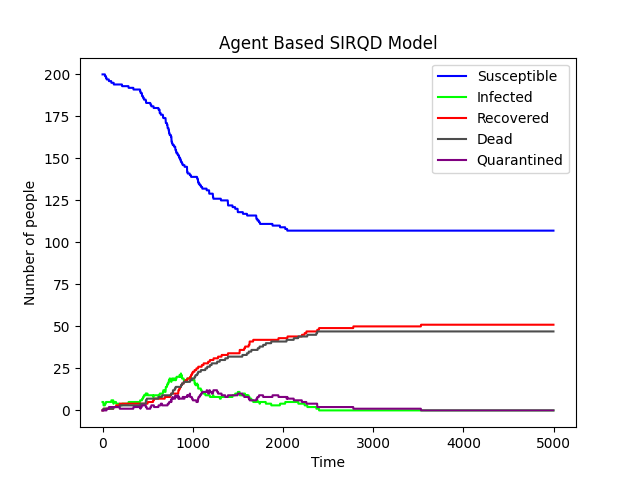
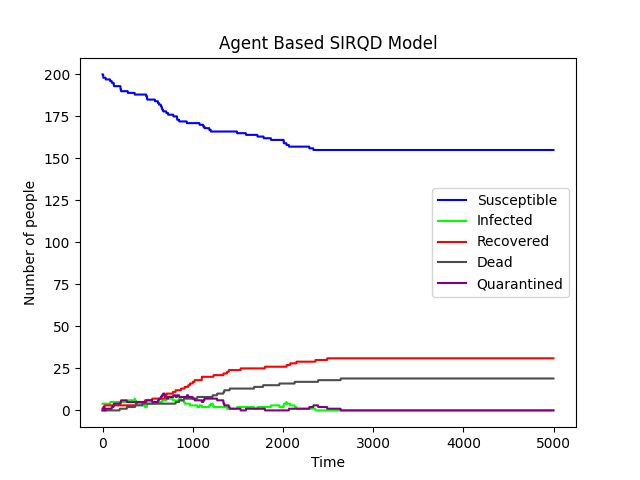
made quarantined agents stationary

diff --git a/Agent/agents.py b/Agent/agents.py
@@ -173,6 +173,7 @@ class QuarantineDeathPerson(DeathPerson):
 				if random() < self.kappa:
 					self.status = 'Q'
 					self.color = PURPLE
+					self.velocity = np.array([0,0])
 				else:
 					self.status = 'I'
 					self.color = GREEN
@@ -194,6 +195,7 @@ class QuarantineDeathPerson(DeathPerson):
 		if self.status == 'Q' and random() < self.gamma:
 			self.status = 'R'
 			self.color = RED
+			self.velocity = np.array([(random() - 0.5)*2,(random() - 0.5)*2]) 
 
 		if self.status == 'Q' and random() < self.mu:
 			self.status = 'D'
